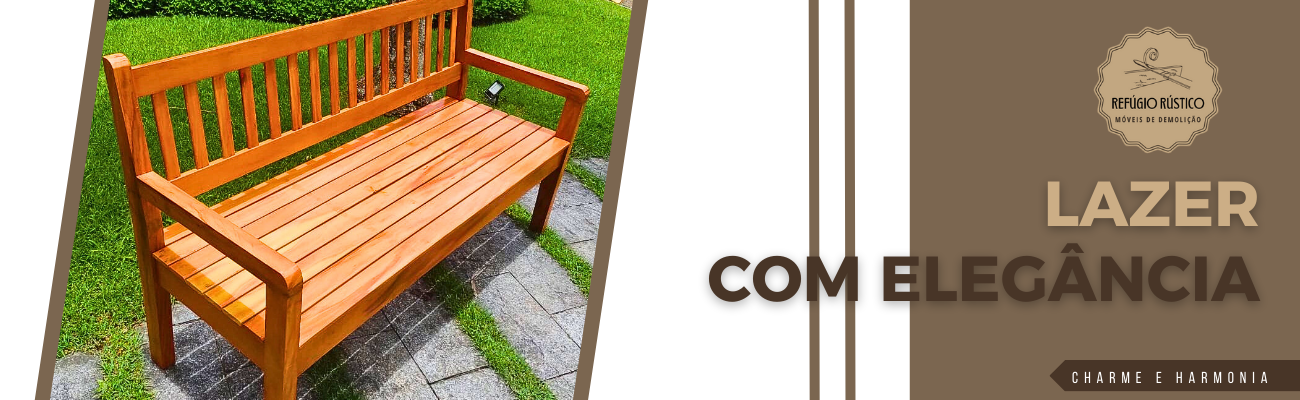
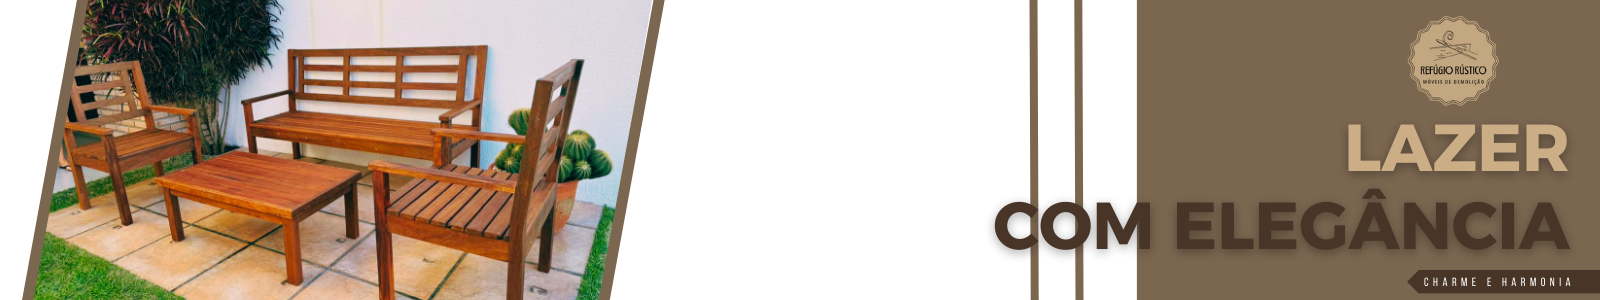
update

diff --git a/src/main/webapp/resources/css/style.css b/src/main/webapp/resources/css/style.css
@@ -101,7 +101,7 @@ html{
     background-color: #ccae86;
     color: #483527;
     border: 0;
-    padding: 8px;
+    padding: 4px;
     border-radius: 50px;
     font-size: 18px;
     font-weight: bold;
@@ -125,7 +125,6 @@ html{
 }
 
 .carousel .ui-carousel-item img {
-    cursor: pointer;
     width: 100%;
     height: auto;
     object-fit: contain;
@@ -178,11 +177,10 @@ html{
 
 .carouselBanner {
     position: relative;
-    margin-top: 320px;
+    top: 235px;
     left: 50%;
     width: 100%;
-    height: 600px;
-    z-index: 8;
+    height: auto;
     transform: translate(-50%, -50%);
     display: flex;
     justify-content: center;
@@ -191,7 +189,7 @@ html{
 
 .carouselBanner .ui-carousel-item img {
     width: 100%;
-    height: 450px;
+    height: auto;
     object-fit: contain;
 }
 
@@ -208,6 +206,162 @@ html{
     display: none !important;
 }
 /* FIM BANNER */
+
+/* INICIO CATEGORIA */
+.section{
+    width: 100%;
+    display: flex;
+}
+
+.div-categoria {
+    display: flex;
+    justify-content: center;
+    align-items: center;
+    gap: 100px;
+    margin-top: 10px;
+}
+
+.div-rustico {
+    display: flex;
+    flex-direction: column;
+    justify-content: center;
+    align-items: center;
+    transition: 0.6s;
+}
+
+.div-rustico:hover{
+    transform: scale(1.1);
+}
+
+.div-sobmedida {
+    display: flex;
+    flex-direction: column;
+    justify-content: center;
+    align-items: center;
+    transition: 0.6s;
+}
+
+.div-sobmedida:hover{
+    transform: scale(1.1);
+}
+
+.img-categoria{
+    width: 430px;
+    height: 530px;
+}
+
+.fundo-categoria {
+    background-color: #483527;
+    height: 50px;
+    width: 100%;
+    display: flex;
+    align-items: center;
+    justify-content: center;
+    text-align: center;
+}
+
+.fundo-categoria h2 {
+    margin: 0;
+    font-family: 'Lobster Two', sans-serif;
+    color: #ccae86;
+    font-size: 28px;
+}
+
+.div-categoria2 {
+    display: flex;
+    justify-content: center;
+    align-items: center;
+    gap: 100px;
+    margin-top: 50px;
+}
+
+.div-decoracao {
+    display: flex;
+    flex-direction: column;
+    justify-content: center;
+    align-items: center;
+    transition: 0.6s;
+}
+
+.div-decoracao:hover{
+    transform: scale(1.1);
+}
+
+.div-descanso {
+    display: flex;
+    flex-direction: column;
+    justify-content: center;
+    align-items: center;
+    transition: 0.6s;
+}
+
+.div-descanso:hover{
+    transform: scale(1.1);
+}
+
+.img-categoria2{
+    width: 650px;
+    height: 400px;
+}
+
+.fundo-categoria2 {
+    background-color: #483527;
+    height: 50px;
+    width: 100%;
+    display: flex;
+    align-items: center;
+    justify-content: center;
+    text-align: center;
+}
+
+.fundo-categoria2 h2 {
+    margin: 0;
+    font-family: 'Lobster Two', sans-serif;
+    color: #ccae86;
+    font-size: 28px;
+}
+
+.fundo-btn-moveis{
+    background-color: #483527;
+    height: 140px;
+    width: 100%;
+    display: flex;
+    flex-direction: column;
+    align-items: center;
+    justify-content: center;
+    text-align: center;
+    margin-top: 50px;
+}
+
+.fundo-h1 {
+    margin: 0;
+    font-family: 'Lobster Two', sans-serif;
+    color: #ccae86;
+    font-size: 30px;
+}
+
+.btn-moveis.ui-button {
+    cursor: pointer;
+    background-color: #ccae86;
+    color: #483527 !important;
+    border: 0;
+    padding: 4px;
+    border-radius: 50px;
+    font-size: 18px;
+    font-weight: bold;
+    transition: 0.6s;
+    margin-top: 15px;
+}
+
+.btn-moveis.ui-button:hover {
+    transform: scale(1.25);
+    background-color: #ccae86 !important; /* Cor de destaque no hover */
+}
+
+
+
+/* FIM CATEGORIA */
+
 
 /* INICIO RESPONSIVIDADE */
 @media (max-width: 1350px) {
@@ -227,25 +381,27 @@ html{
     .main {
         width: auto;
         align-items: center;
-        margin-top: 150px;
+        margin-top: 110px;
     }
 
     .main h1 {
         margin-left: -70px;
+        margin-top: -05px;
     }
 
     .main .btn-orcamento.ui-button {
         margin-left: -75px;
+        margin-top: 20px;
     }
 
     .carousel {
         margin: 0;
-        margin-top: 50px;
+        margin-top: 20px;
         margin-right: 0;
     }
 
     .fundo-inicio {
-        top: 1020px;
+        top: 890px;
         height: 150px;
         display: flex;
         justify-content: center;
@@ -256,12 +412,6 @@ html{
         margin-top: 0;
         text-align: center;
         margin-left: 0;
-    }
-
-    .carouselBanner {
-        margin: 0;
-        margin-top: 435px;
-        margin-right: 0;
     }
 }
 
@@ -275,14 +425,14 @@ html{
 
 @media (max-width: 900px) {
     .img-logo{
-        margin-top: 300px;
+        margin-top: 270px;
         position: absolute;
     }
 
     .main {
         width: auto;
         align-items: center;
-        margin-top: 200px;
+        margin-top: 190px;
     }
 
     .carousel{
@@ -290,7 +440,7 @@ html{
     }
 
     .fundo-inicio {
-        top: 1050px;
+        top: 970px;
         height: 150px;
         display: flex;
         justify-content: center;
@@ -304,28 +454,106 @@ html{
     }
 }
 
-@media (max-width: 720px) {
+@media (max-width: 1620px) {
     .carouselBanner {
         margin: 0;
-        margin-top: 300px;
+        top: 200px;
         margin-right: 0;
     }
 }
 
-@media (max-width: 620px) {
+@media (max-width: 1520px) {
     .carouselBanner {
         margin: 0;
-        margin-top: 280px;
+        top: 200px;
         margin-right: 0;
     }
 }
 
-@media (max-width: 520px) {
+@media (max-width: 1420px) {
     .carouselBanner {
         margin: 0;
-        margin-top: 250px;
+        top: 180px;
         margin-right: 0;
     }
 }
 
+@media (max-width: 1300px) {
+    .carouselBanner {
+        margin: 0;
+        top: 280px;
+        margin-right: 0;
+    }
+}
 
+@media (max-width: 1200px) {
+    .carouselBanner {
+        margin: 0;
+        top: 270px;
+        margin-right: 0;
+    }
+}
+
+@media (max-width: 1100px) {
+    .carouselBanner {
+        margin: 0;
+        top: 260px;
+        margin-right: 0;
+    }
+}
+
+@media (max-width: 1000px) {
+    .carouselBanner {
+        margin: 0;
+        top: 250px;
+        margin-right: 0;
+    }
+}
+
+@media (max-width: 900px) {
+    .carouselBanner {
+        margin: 0;
+        top: 240px;
+        margin-right: 0;
+    }
+}
+
+@media (max-width: 800px) {
+    .carouselBanner {
+        margin: 0;
+        top: 230px;
+        margin-right: 0;
+    }
+}
+
+@media (max-width: 700px) {
+    .carouselBanner {
+        margin: 0;
+        top: 220px;
+        margin-right: 0;
+    }
+}
+
+@media (max-width: 600px) {
+    .carouselBanner {
+        margin: 0;
+        top: 210px;
+        margin-right: 0;
+    }
+}
+
+@media (max-width: 500px) {
+    .carouselBanner {
+        margin: 0;
+        top: 200px;
+        margin-right: 0;
+    }
+}
+
+@media (max-width: 400px) {
+    .carouselBanner {
+        margin: 0;
+        top: 190px;
+        margin-right: 0;
+    }
+}

diff --git a/src/main/java/aplication/bean/CarrosselBannerBean.java b/src/main/java/aplication/bean/CarrosselBannerBean.java
@@ -12,7 +12,7 @@ public class CarrosselBannerBean {
 
     public CarrosselBannerBean() {
         listaBanner = new ArrayList<>();
-        listaBanner.add("/resources/images/banner1.png");
+        listaBanner.add("/resources/images/banner.png");
         listaBanner.add("/resources/images/banner2.png");
     }
 
